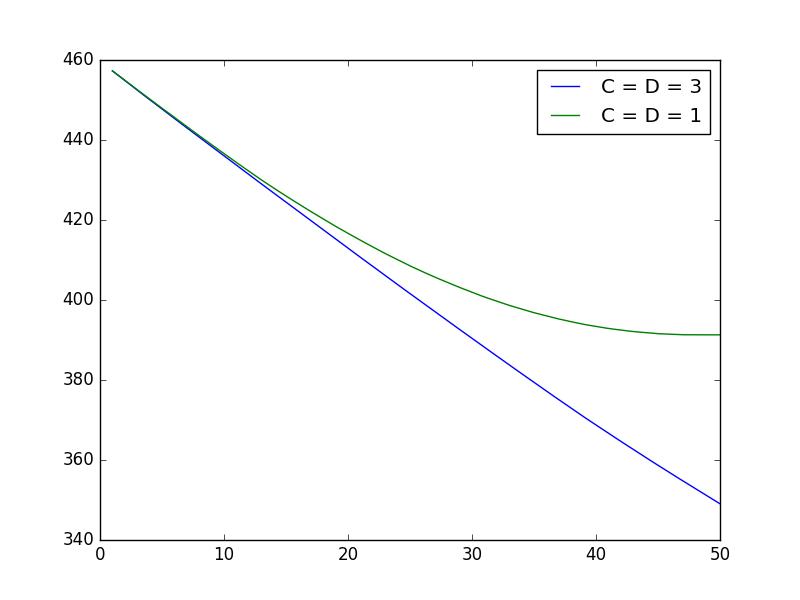
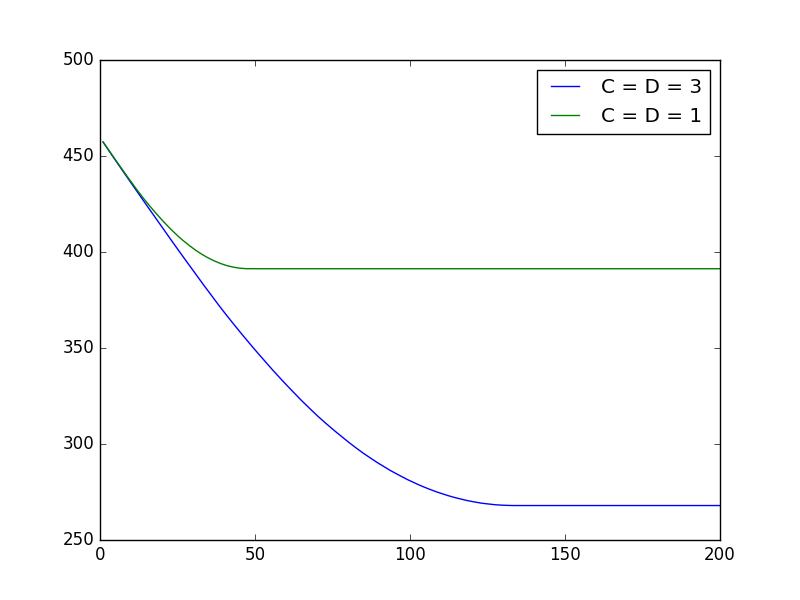
homework 4

diff --git a/blend_design_data.py b/blend_design_data.py
@@ -1,0 +1,68 @@
+import numpy as np
+from math import *
+n = 10 # number of variables
+k = 6  # number of designs
+
+# component widths from known designs
+# each column of W is a different design
+W ='1.8381    1.5803   12.4483    4.4542    6.5637    5.8225;\
+    1.0196    3.0467   18.4965    3.6186    7.6979    2.3292;\
+    1.6813    1.9083   17.3244    4.6770    4.6581   27.0291;\
+    1.3795    2.6250   14.6737    4.1361    7.1610    7.5759;\
+    1.8318    1.4526   17.2696    3.7408    2.2107   10.3642;\
+    1.5028    3.0937   14.9034    4.4055    7.8582   20.5204;\
+    1.7095    2.1351   10.1296    4.0931    2.9001    9.9634;\
+    1.4289    3.5800    9.3459    3.8898    2.7663   15.1383;\
+    1.3046    3.5610   10.1179    4.3891    7.1302    3.8139;\
+    1.1897    2.7807   13.0112    4.2426    6.1611   29.6734'
+W = np.matrix(W)
+
+(W_min, W_max) = (1.0, 30.0)
+
+# objective values for the different designs
+# entry j gives the objective for design j
+P = np.matrix('29.0148   46.3369  282.1749   78.5183  104.8087  253.5439')
+D = np.matrix('15.9522   11.5012    4.8148    8.5697    8.0870    6.0273')
+A = np.matrix('22.3796   38.7908  204.1574   62.5563   81.2272  200.5119')
+
+# specifications
+(P_spec, D_spec, A_spec) = (60.0, 10.0, 50.0)
+
+print 'Possible W Design(i, j theta_lower, theta_upper):'
+for i in xrange(6):
+    for j in xrange(i+1, 6):
+        if i != j:
+            utheta = 1
+            ltheta = 0
+            tp = log(P_spec/P[0, j])/log(P[0, i]/P[0, j])
+            if P[0, i] > P[0, j]:
+                if tp < utheta:
+                    utheta = tp
+            else:
+                if tp > ltheta:
+                    ltheta = tp
+            td = log(D_spec/D[0, j])/log(D[0, i]/D[0, j])
+            if D[0, i] > D[0, j]:
+                if td < utheta:
+                    utheta = td
+            else:
+                if td > ltheta:
+                    ltheta = td
+            ta = log(A_spec/A[0, j])/log(A[0, i]/A[0, j])
+            if A[0, i] > A[0, j]:
+                if ta < utheta:
+                    utheta = ta
+            else:
+                if ta > ltheta:
+                    ltheta = ta
+            if utheta > ltheta:
+                print i, j, ltheta, utheta
+
+print '\nOne Example:'
+print 'W:'
+for i in xrange(10):
+    print W[i, 0]**0.52 * W[i, 3]**0.48
+
+print 'P:', P[0, 1]**0.52 * P[0, 3]**0.48
+print 'D:', D[0, 1]**0.52 * D[0, 3]**0.48
+print 'A:', A[0, 1]**0.52 * A[0, 3]**0.48

diff --git a/booleanlp.py b/booleanlp.py
@@ -1,0 +1,61 @@
+import numpy as np
+from cvxpy import *
+import matplotlib.pyplot as plt
+
+np.random.seed(0)
+(m, n) = (300, 100)
+A = np.random.rand(m, n); A = np.asmatrix(A)
+b = A.dot(np.ones((n, 1)))/2; b = np.asmatrix(b)
+c = -np.random.rand(n, 1); c = np.asmatrix(c)
+
+x = Variable(n)
+constraints = [A * x <= b, x >= 0, x <= 1]
+obj = Minimize(c.T * x)
+prob = Problem(obj, constraints)
+prob.solve()
+
+lower = prob.value
+xrlx = x.value
+xrlx.squeeze()
+
+thresholds = np.arange(0, 1.01, 0.01)
+tnum = len(thresholds)
+objectives = []
+violations = []
+
+for t in thresholds:
+    xnew = np.random.rand(n, 1)
+    xnew = np.asmatrix(xnew)
+    for i in xrange(n):
+        if xrlx[i] >= t:
+            xnew[i, 0] = 1
+        else:
+            xnew[i, 0] = 0
+
+    objectives.append(np.dot(c.T, xnew)[0, 0])
+    vio = np.dot(A, xnew) - b
+    violations.append(np.amax(vio))
+
+c = 0
+for i in xrange(100):
+    if violations[i] < 0:
+        c = i
+        break
+
+plt.plot(thresholds[0 : c + 1], violations[0 : c + 1], linewidth = 2)
+plt.plot(thresholds[c + 1 : tnum], violations[c + 1 : tnum], linewidth = 2)
+plt.plot(thresholds, [0]*101, linewidth = 3, color = 'black')
+plt.xlabel('threshold')
+plt.ylabel('max violation')
+plt.show()
+
+plt.plot(thresholds[0 : c + 1], objectives[0 : c + 1], linewidth = 2)
+plt.plot(thresholds[c + 1 : tnum], objectives[c + 1 : tnum], linewidth = 2)
+plt.plot(thresholds, [objectives[c]]*101, linewidth = 3, color = 'black')
+plt.xlabel('threshold')
+plt.ylabel('objective')
+plt.show()
+
+print 'L = ', lower
+print 'U = ', objectives[c]
+print 't = ', thresholds[c]

diff --git a/perturbation.py b/perturbation.py
@@ -1,0 +1,42 @@
+import numpy as np
+from cvxpy import *
+
+Q = np.matrix([[1, -0.5], [-0.5, 2]])
+f = np.matrix([[-1], [0]])
+a1 = np.array([1, 2])
+a2 = np.array([1, -4])
+a3 = np.array([5, 76])
+
+
+x = Variable(2)
+
+constraints = [a1 * x <= -2, a2 * x <= -3, a3 * x <= 1]
+obj = Minimize(quad_form(x, Q) + f.T * x)
+prob = Problem(obj, constraints)
+
+prob.solve()
+print x.value
+print prob.value
+print constraints[0].dual_value
+print constraints[1].dual_value
+print constraints[2].dual_value
+
+pstar = prob.value
+l1 = constraints[0].dual_value
+l2 = constraints[1].dual_value
+
+delta1 = [-0.01, 0, 0.01]
+delta2 = [-0.01, 0, 0.01]
+
+for d1 in delta1:
+    for d2 in delta2:
+        u1 = -2 + d1
+        u2 = -3 + d2
+        x = Variable(2)
+        constraints = [a1 * x <= u1, a2 * x <= u2, a3 * x <= 1]
+        obj = Minimize(quad_form(x, Q) + f.T * x)
+        prob = Problem(obj, constraints)
+        prob.solve()
+        pexact = prob.value
+        print ' '
+        print d1, d2, pstar - l1 * d1 - l2 * d2, pexact

diff --git a/dualplot.py b/dualplot.py
@@ -1,0 +1,35 @@
+import numpy as np
+from math import *
+import matplotlib.pyplot as plt
+
+xs = np.arange(-1, 5, 0.01)
+lambdas = np.arange(0, 4, 0.5)
+
+for l in lambdas:
+    L = []
+    for x in xs:
+        L.append((1 + l)*x**2 - 6*l*x + 8*l + 1)
+    plt.plot(xs, L)
+
+plt.show()
+
+ls = np.arange(-0.5, 5, 0.01)
+g = []
+for l in ls:
+    g.append(-9*l**2/(1+l) + 1 + 8*l)
+
+plt.plot(ls, g)
+plt.show()
+
+us = np.arange(-1, 10, 0.01)
+p = []
+for u in us:
+    if u > 8:
+        p.append(1)
+    else:
+        p.append(u - 6 * sqrt(1+u) + 11)
+
+plt.plot(us, p)
+plt.xlim([-2, 10])
+plt.ylim([-2, 10])
+plt.show()

diff --git a/storage_tradeoff_data.py b/storage_tradeoff_data.py
@@ -41,7 +41,7 @@ for i in xrange(T - 1):
 obj1 = Minimize(p.T * (c + u))
 prob1 = Problem(obj1, constraints1)
 optimal1 = []
-qvalues1 = np.linspace(1, 50, num = 200)
+qvalues1 = np.linspace(1, 200, num = 400)
 for val in qvalues1:
     Q.value = val
     prob1.solve()
@@ -58,7 +58,7 @@ for i in xrange(T - 1):
 obj2 = Minimize(p.T * (c + u))
 prob2 = Problem(obj2, constraints2)
 optimal2 = []
-qvalues2 = np.linspace(1, 50, num = 200)
+qvalues2 = np.linspace(1, 200, num = 400)
 for val in qvalues2:
     Q.value = val
     prob2.solve()
